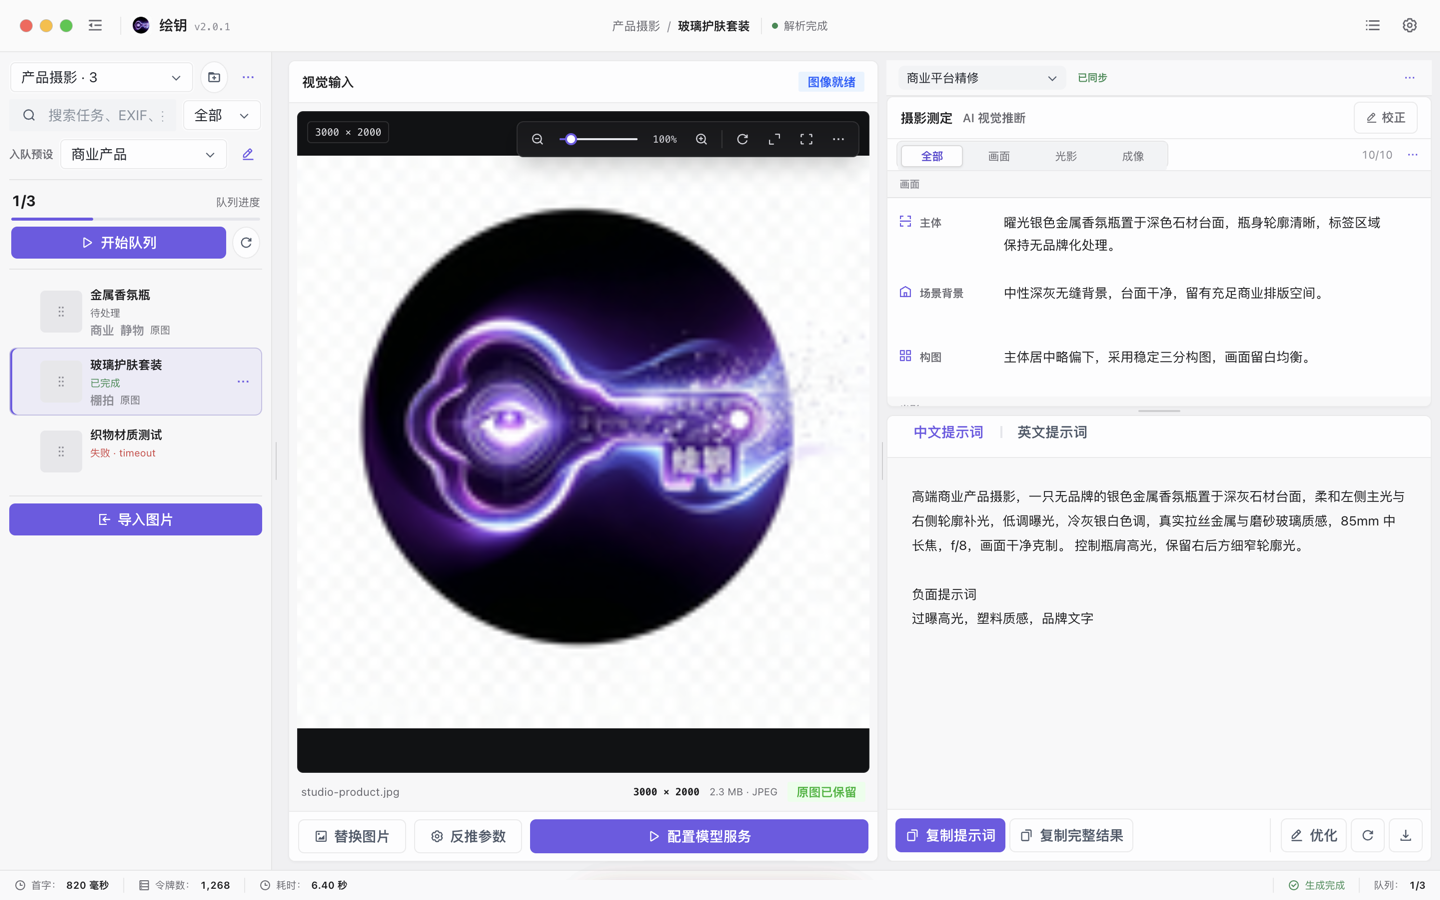
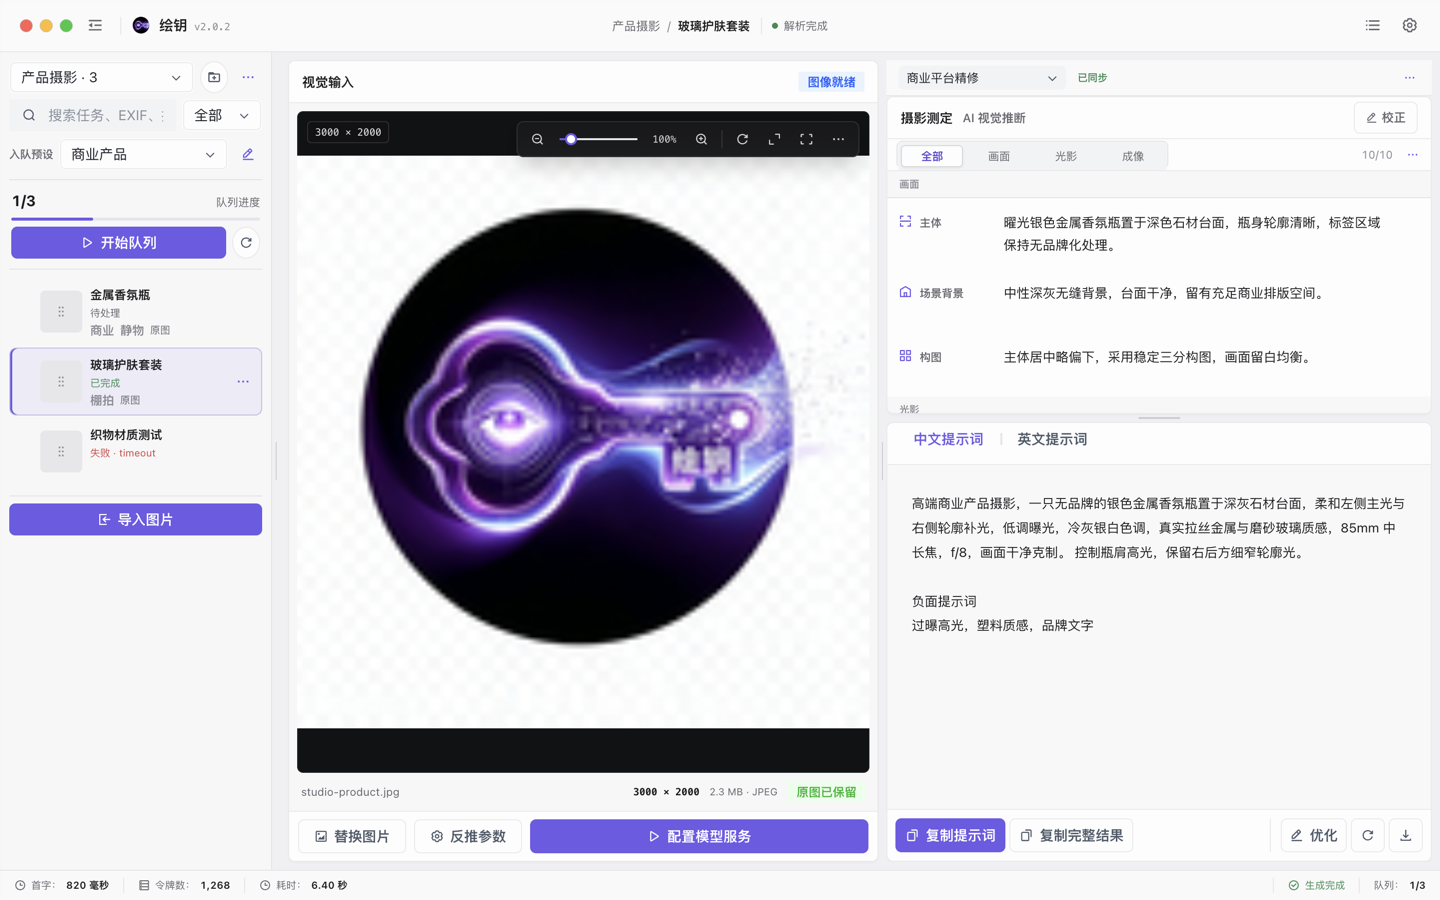
release: prepare 2.0.2

Changed region(s): [[0.625, 0.5289, 0.9688, 0.6222], [0.625, 0.6533, 0.75, 0.7156], [0.625, 0.4667, 0.75, 0.4978]]

diff --git a/docs/operations/release.md b/docs/operations/release.md
@@ -29,7 +29,7 @@ npm run package:macos
 
 ```text
 artifacts/release/绘钥.app
-artifacts/release/绘钥_2.0.1_aarch64.dmg
+artifacts/release/绘钥_2.0.2_aarch64.dmg
 ```
 
 `--fast` 仅用于已经完成全量检查后的重复打包：
@@ -45,7 +45,7 @@ npm run verify:release
 file artifacts/release/绘钥.app/Contents/MacOS/huiyao
 codesign --verify --deep --strict --verbose=2 artifacts/release/绘钥.app
 open -n artifacts/release/绘钥.app
-hdiutil verify artifacts/release/绘钥_2.0.1_aarch64.dmg
+hdiutil verify artifacts/release/绘钥_2.0.2_aarch64.dmg
 ```
 
 验证应用启动不是白屏，图标、版本、Bundle ID、最低系统版本和 arm64 架构正确；确认 `CFBundleDevelopmentRegion=zh_CN`、`CFBundleLocalizations` 包含 `zh-Hans`，WebKit 原生恢复按钮显示“重新载入”；检查项目、批量导入、队列暂停恢复、流式生成、统一修订、字段锁定、AI 重测、提示词同步、比较、预设、筛选、废纸篓、原图、设置、日志和 ZIP 导出。
@@ -57,25 +57,25 @@ hdiutil verify artifacts/release/绘钥_2.0.1_aarch64.dmg
 仅在 `master` 的提交、安装包和版本校验均通过后创建带注释标签：
 
 ```bash
-git tag -a v2.0.1 -m "绘钥 2.0.1"
+git tag -a v2.0.2 -m "绘钥 2.0.2"
 git push origin master
-git push origin v2.0.1
+git push origin v2.0.2
 ```
 
 使用 GitHub CLI 发布，并将 CHANGELOG 中当前版本内容作为发布说明：
 
 ```bash
-ditto artifacts/release/绘钥_2.0.1_aarch64.dmg \
-  artifacts/release/Huiyao_2.0.1_aarch64.dmg
+ditto artifacts/release/绘钥_2.0.2_aarch64.dmg \
+  artifacts/release/Huiyao_2.0.2_aarch64.dmg
 (
   cd artifacts/release
-  shasum -a 256 Huiyao_2.0.1_aarch64.dmg \
-    > Huiyao_2.0.1_aarch64.dmg.sha256
+  shasum -a 256 Huiyao_2.0.2_aarch64.dmg \
+    > Huiyao_2.0.2_aarch64.dmg.sha256
 )
-gh release create v2.0.1 \
-  artifacts/release/Huiyao_2.0.1_aarch64.dmg \
-  artifacts/release/Huiyao_2.0.1_aarch64.dmg.sha256 \
-  --title "绘钥 2.0.1" \
+gh release create v2.0.2 \
+  artifacts/release/Huiyao_2.0.2_aarch64.dmg \
+  artifacts/release/Huiyao_2.0.2_aarch64.dmg.sha256 \
+  --title "绘钥 2.0.2" \
   --notes-file artifacts/release/RELEASE_NOTES.md
 ```
 

diff --git a/README.md b/README.md
@@ -2,7 +2,7 @@
 
 绘钥是一款使用 React、TypeScript 与 Tauri 2 构建的 macOS 本地数字暗房工作台。它面向摄影师、设计师和内容创作者，以项目和任务组织图片反推、摄影测定、双语提示词、专业精修、批量导出与本地资产管理。
 
-当前版本：`2.0.1` · Bundle ID：`com.huiyao.studio` · 支持 Apple Silicon 与 macOS 12 及以上版本。
+当前版本：`2.0.2` · Bundle ID：`com.huiyao.studio` · 支持 Apple Silicon 与 macOS 12 及以上版本。
 
 ![绘钥 2.0 专业精修工作台](docs/assets/ui/current/professional-refinement-light-1440x900.png)
 
@@ -39,14 +39,14 @@
 
 ## 下载安装
 
-从 [GitHub Releases](https://github.com/840103818/huiyao/releases/latest) 下载 `Huiyao_2.0.1_aarch64.dmg`，打开后将“绘钥”拖入“应用程序”。
+从 [GitHub Releases](https://github.com/840103818/huiyao/releases/latest) 下载 `Huiyao_2.0.2_aarch64.dmg`，打开后将“绘钥”拖入“应用程序”。
 
 当前发布包使用 ad-hoc 签名，适合个人或内部使用，未进行 Apple notarization。首次启动若被 macOS 阻止，请在“系统设置 → 隐私与安全性”中确认来源后再次打开。不要从非项目 Release 页面下载重新打包的安装文件。
 
 可使用同一 Release 中的 `.sha256` 文件核对安装包：
 
 ```bash
-shasum -a 256 -c Huiyao_2.0.1_aarch64.dmg.sha256
+shasum -a 256 -c Huiyao_2.0.2_aarch64.dmg.sha256
 ```
 
 ## 快速开始
@@ -256,7 +256,7 @@ npm run package:macos -- --fast
 
 ```text
 artifacts/release/绘钥.app
-artifacts/release/绘钥_2.0.1_aarch64.dmg
+artifacts/release/绘钥_2.0.2_aarch64.dmg
 ```
 
 发布脚本检查版本、Bundle ID、图标、本地化、arm64 架构、ad-hoc 签名和 DMG 完整性。正式发布步骤参见[macOS 发布指南](docs/operations/release.md)。

diff --git a/CHANGELOG.md b/CHANGELOG.md
@@ -2,6 +2,25 @@
 
 本文件记录绘钥面向用户的重要变化。版本号遵循语义化版本规范。
 
+## 2.0.2 - 2026-07-30
+
+### 摄影测定
+
+- 优化“全部 / 画面 / 光影 / 成像”分组导航，统一为连续四段式控件，降低块状间隔带来的视觉噪声。
+- 强化当前分组、悬停、按下和键盘焦点状态，在窄窗口中保持四段等宽且不改变控件尺寸。
+- 保留原有平滑定位和完整测定内容，导航只改变阅读位置，不修改或筛选分析结果。
+
+### 文档与验证
+
+- 同步用户操作、交互规范、设计系统、前端实现说明及双尺寸、双主题界面基线。
+- 通过前端与 Rust 全量测试、生产构建、依赖审计、Apple Silicon 产物校验和原生启动检查。
+
+### 下载说明
+
+- 支持 Apple Silicon，最低系统版本为 macOS 12。
+- 当前安装包使用 ad-hoc 签名，适合个人或内部使用。
+- 安装包：`绘钥_2.0.2_aarch64.dmg`。
+
 ## 2.0.1 - 2026-07-28
 
 ### 界面体验

diff --git a/docs/README.md b/docs/README.md
@@ -1,6 +1,6 @@
 # 绘钥文档中心
 
-本文档中心按“使用产品、理解设计、参与开发、完成发布”四条路径组织。根目录 [README](../README.md) 提供下载安装、首次配置、开发环境和常见问题的统一入口；本文档进一步索引专题说明。当前文档对应绘钥 `2.0.1`，历史实施记录保留在 `tasks/`，不作为当前行为说明。
+本文档中心按“使用产品、理解设计、参与开发、完成发布”四条路径组织。根目录 [README](../README.md) 提供下载安装、首次配置、开发环境和常见问题的统一入口；本文档进一步索引专题说明。当前文档对应绘钥 `2.0.2`，历史实施记录保留在 `tasks/`，不作为当前行为说明。
 
 ## 用户与产品
 
